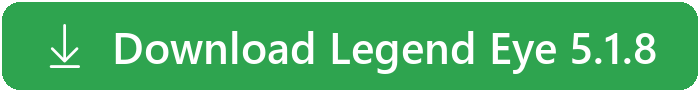
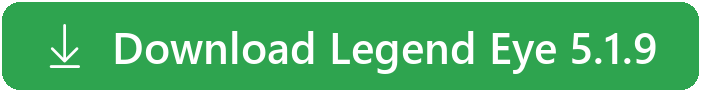
README: 5.1.9 notes, download button, VirusTotal

diff --git a/README.md b/README.md
@@ -15,6 +15,25 @@ https://github.com/user-attachments/assets/6669fe4a-ca21-4385-8b5a-49e3ea01fefb
 
 Eye tracking, face tracking and dynamic foveated rendering for the **Bigscreen Beyond 2e**. Free to use.
 
+## What's new in 5.1.9
+
+#### Fixes
+- Eye cameras other than the Beyond's own (custom eye trackers): LegendEye now opens the camera at its fastest frame rate. Before, it used the camera's default mode, so a camera that defaults to 30 fps ran at 30 even when it can do 60. The stock Beyond eye cameras already open at their fastest (90 fps) and are unchanged.
+- Export logs: the camera log now lists every mode the eye camera offers.
+
+## ⬇ Download
+
+<a href="https://github.com/Encapsulation/LegendEye/releases/latest/download/LegendEye.exe"><img src="docs/download-button.png" alt="Download Legend Eye 5.1.9" width="350"></a>
+
+One file: no installer, nothing to unpack. To update, replace the exe; your settings and calibrations are kept. [All releases](https://github.com/Encapsulation/LegendEye/releases)
+
+**VirusTotal (5.1.9):** [1 of 70 security vendors flagged it](https://www.virustotal.com/gui/file/6c6db4cb8857e03d96a167241d1944a9db3dec63ad9ee41d75dbeacfc3e0a7db)  
[1 lines of base64/hex data omitted]
+
+The single hit is Trapmine "Suspicious.low.ml.score": a machine-learning guess, not a malware signature. It is triggered by how LegendEye ships: one self-contained EXE with its models and runtime packed inside, which looks unusual to generic scanners. Microsoft Defender and every major antivirus report it clean.
+
+Windows may show "Windows protected your PC" the first time, because the app isn't code-signed yet. Click **More info**, then **Run anyway**.
+
 ## What's new in 5.1.8
 
 #### Fixes
@@ -23,19 +42,6 @@ Eye tracking, face tracking and dynamic foveated rendering for the **Bigscreen B
 - VIVE Facial Tracker: recovering from a tracker that stops sending pictures is more reliable. In rare cases LegendEye could crash, or keep the tracker busy, after a stall.
 - Eye cameras running at 60 fps: eyelid smoothing always uses the camera's real frame rate. 5.1.7 did not always catch 60 fps cameras.
 - Changing a setting and then the camera or source right after no longer restarts tracking with the previous camera.
-
-## ⬇ Download
-
-<a href="https://github.com/Encapsulation/LegendEye/releases/latest/download/LegendEye.exe"><img src="docs/download-button.png" alt="Download Legend Eye 5.1.8" width="350"></a>
-
-One file: no installer, nothing to unpack. To update, replace the exe; your settings and calibrations are kept. [All releases](https://github.com/Encapsulation/LegendEye/releases)
-
-**VirusTotal (5.1.8):** [1 of 69 security vendors flagged it](https://www.virustotal.com/gui/file/9260b4154315038a98d8d61481f9d2384f5da9ffaa0fe7bcc7febd4939064338)  
[1 lines of base64/hex data omitted]
-
-The single hit is Trapmine "Suspicious.low.ml.score": a machine-learning guess, not a malware signature. It is triggered by how LegendEye ships: one self-contained EXE with its models and runtime packed inside, which looks unusual to generic scanners. Microsoft Defender and every major antivirus report it clean.
-
-Windows may show "Windows protected your PC" the first time, because the app isn't code-signed yet. Click **More info**, then **Run anyway**.
 
 ## What's new in 5.1.7
 
